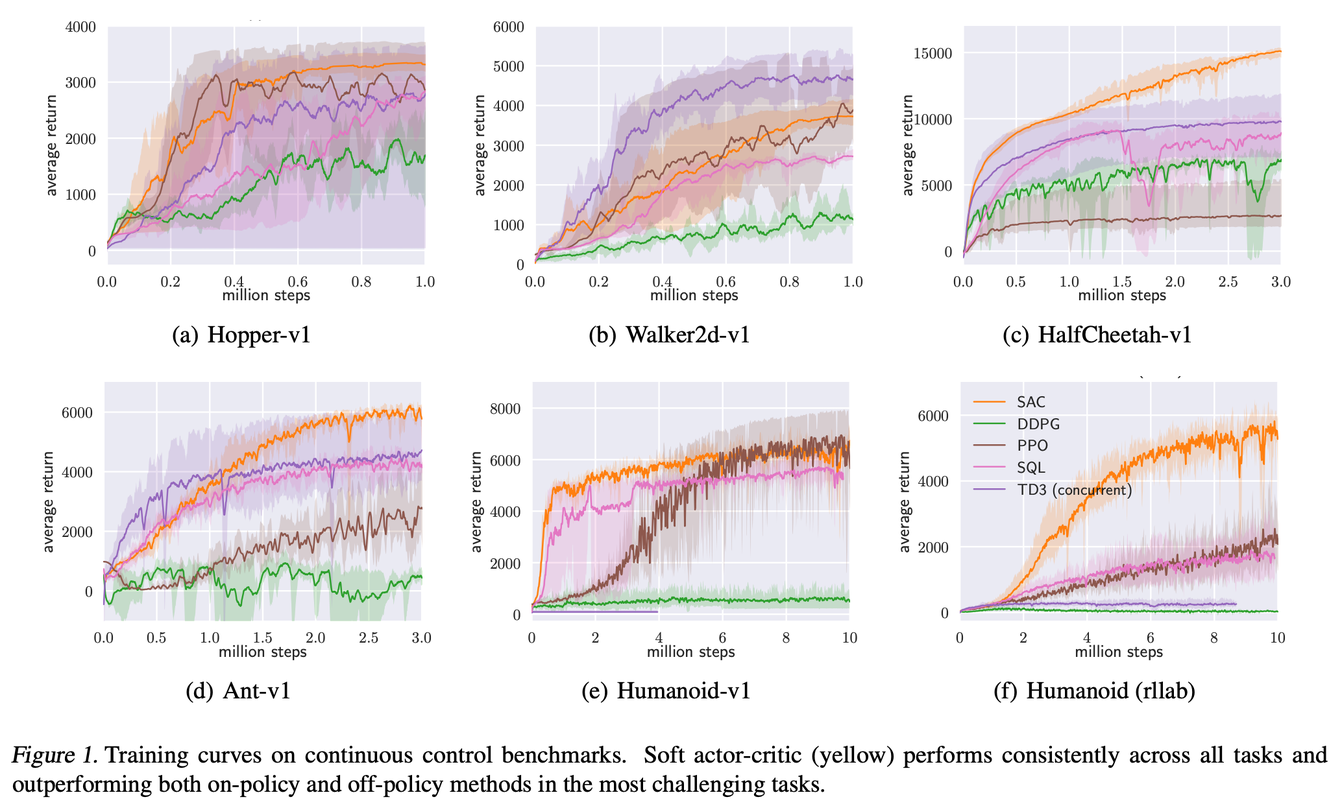
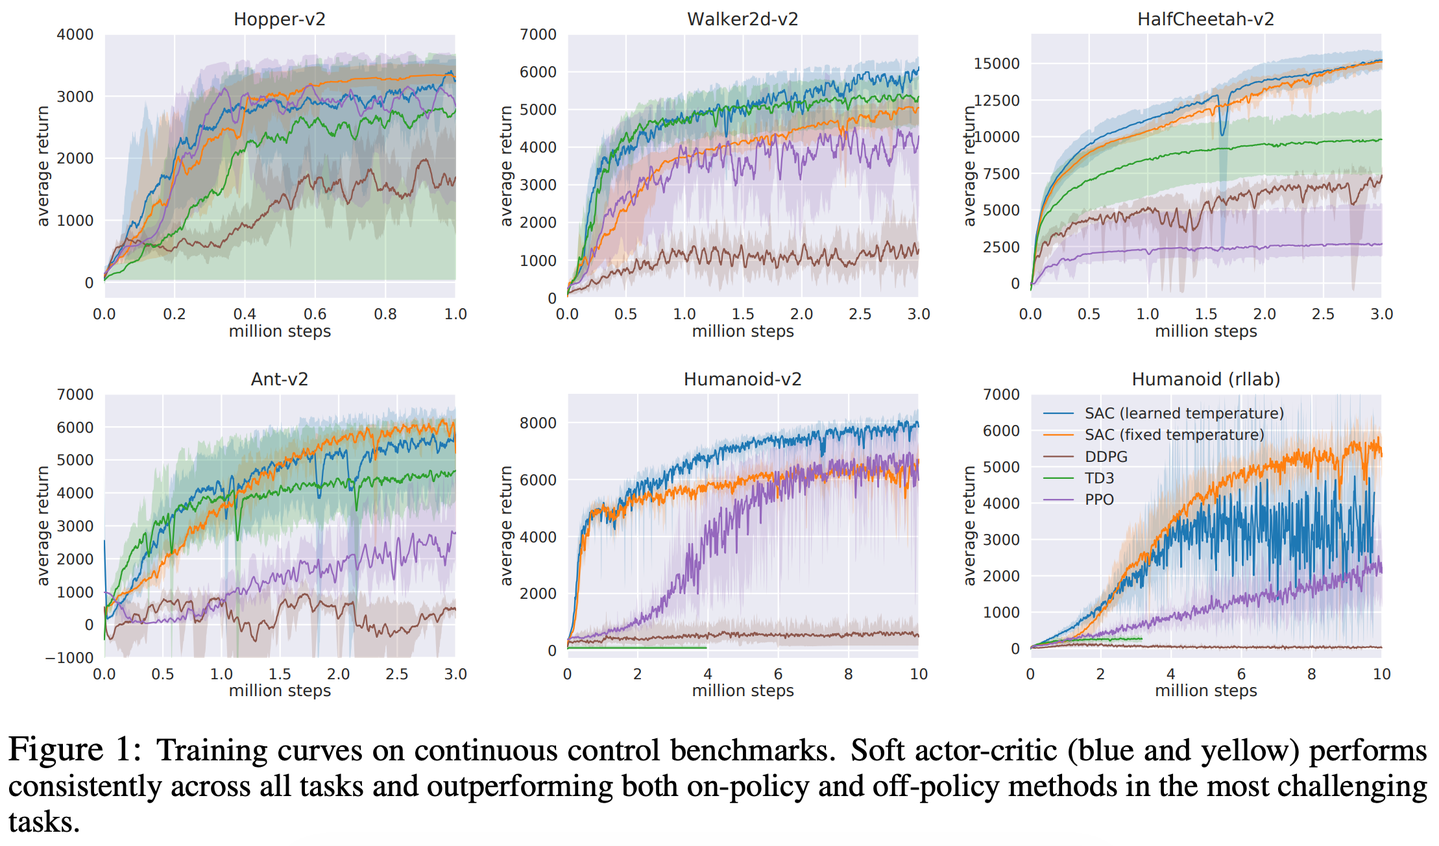
add 2 2018 SAC v2

diff --git a/docs/docs/2.3_2026_SOTA_RL/papers/02_SAC_v2.md b/docs/docs/2.3_2026_SOTA_RL/papers/02_SAC_v2.md
@@ -1,0 +1,313 @@
+# 2 2018 SAC v2
+
+- [Soft Actor-Critic Algorithms and Applications](https://arxiv.org/pdf/1812.05905)
+
+- https://github.com/rail-berkeley/softlearning/
+- https://sites.google.com/view/sac-and-applications/
+
+## Abstract
+
+- Model-free deep reinforcement learning (RL) algorithms have been successfully applied to a range of challenging sequential decision making and control tasks.
+- However, these methods typically suffer from two major challenges: 
+    - high sample complexity 
+    - and brittleness to hyperparameters. 
+- Both of these challenges limit the applicability of such methods to real-world domains. 
+- In this paper, we describe Soft Actor-Critic (SAC), our recently introduced off-policy actor-critic algorithm based on the maximum entropy RL framework. 
+- In this framework, the actor aims to simultaneously maximize **expected return** and **entropy**; that is, to succeed at the task while acting as randomly as possible. 
+- **We extend SAC to incorporate a number of modifications that accelerate training and improve stability with respect to the hyperparameters, including a constrained formulation that automatically tunes the temperature hyperparameter.** 
+
+- We systematically evaluate SAC on a range of benchmark tasks, as well as challenging real-world tasks such as 
+    - locomotion for a quadrupedal robot 
+    - and robotic manipulation with a dexterous hand. 
+- With these improvements, SAC achieves state-of-the-art performance, outperforming prior on-policy and off-policy methods in sample-efficiency and asymptotic performance.
+- Furthermore, we demonstrate that, in contrast to other off-policy algorithms, our approach is very stable, achieving similar performance across different random seeds. 
+- These results suggest that SAC is a promising candidate for learning in real-world robotics tasks.
+
+## 1 Introduction
+
+## 2 Related Work
+
+## 3 Preliminaries
+
+### 3.1 Notation
+
+### 3.2 Maximum Entropy Reinforcement Learning
+
+- Maximum entropy objective:
+
+$$ J(\pi) = \sum_{t=0}^T E_{ (s_t, a_t) \sim \rho_\pi } [ r(s_t, a_t) + \alpha H(\pi(\cdot|s_t)) ] $$
+
+## 4 From Soft Policy Iteration to Soft Actor-Critic
+
+### 4.1 Soft Policy Iteration
+
+- Bellman backup operator:
+
+$$ Q^{k+1} := T^\pi Q^k(s_t, a_t) := r(s_t, a_t) + \gamma E_{s_{t+1}\sim p}[V^k(s_{t+1})] \\[5pt] 
+V^k(s_t) := E_{a_t \sim \pi} [ Q^k(s_t, a_t) - {\color{red}\alpha} \log \pi(a_t|s_t) ] $$
+
+- In the policy improvement step, for each state, we update the policy
+according to
+
+$$ \pi_\text{new} = \argmin_{\pi' \in \Pi} D_{KL} \left(
+\pi'(\cdot|s_t) \middle\| { \exp( {\color{red}\alpha^{-1}} Q^{\pi_\text{old}}(s_t, \cdot) ) \over Z^{\pi_\text{old}}(s_t) }
+\right) $$
+
+### 4.2 Soft Actor-Critic
+
+- **The soft Q-function parameters can be trained to minimize the soft Bellman residual**:
+
+$$ J_Q(\theta) = E_{(s_t, a_t)\sim D} \left[ {1\over 2} \left(
+Q_\theta(s_t, a_t) - \hat{Q}(s_t, a_t) \right)^2 \right] \\[5pt]
+\hat{Q}(s_t, a_t) := r(s_t, a_t) + \gamma E_{s_{t+1}\sim p}[ {\color{red} V_{\bar{\theta}}}(s_{t+1})] \\[10pt]
+\nabla_\theta J_Q(\theta) = ( Q_\theta(s_t, a_t) - r(s_t, a_t) - \gamma {\color{red} V_{\bar{\theta}}}(s_{t+1}) ) \nabla_\theta Q_\theta(s_t, a_t) $$
+
+- **where the value function is implicitly parameterized through the soft Q-function parameters via Equation 3**
+    - **In (Haarnoja et al., 2018c) we introduced an additional function approximator for the value function, but later found it to be unnecessary.**
+
+- The update makes use of a target soft Q-function with parameters $\bar{\theta}$ that are obtained as an **exponentially moving average** of the soft Q-function weights, which has been shown to stabilize training (Mnih
+et al., 2015).
+
+- Finally, the policy parameters can be learned by directly minimizing the expected KL-divergence in Equation 4:
+
+$$ J_\pi(\phi) = E_{s_t\sim D} \left[ D_{KL} \left(
+\pi_\phi( \cdot|s_t ) \middle\| { \exp( {\color{red}\alpha^{-1}} Q_\theta(s_t, \cdot) ) \over Z_\theta(s_t) }
+\right) \right] \\[5pt]
+\text{ignore } Z_\theta(s_t) \text{, scale by } \alpha: \\[5pt]
+{\color{red} J_\pi(\phi) = E_{s_t\sim D} \left[ E_{a_t\sim \pi_\phi} \left[
+\alpha \log \pi_\phi( a_t|s_t ) -  Q_\theta(s_t, a_t)  
+\right] \right] } $$
+
+- Study note: $$ D_{KL}(P \parallel Q) := E_{x \sim P} [ \log P(x) - \log Q(x)] $$
+
+- We reparameterize the policy using a neural network transformation:
+
+$$ a_t = f_\phi(\epsilon_t ; s_t) $$
+
+- where $\epsilon_t$ is an input noise vector, sampled from some fixed distribution, such as a spherical Gaussian. We can now rewrite the objective in Equation 7 as:
+
+$$ J_\pi(\phi) = E_{s_t\sim D, \; \epsilon_t \sim \mathcal{N} } \left[
+{\color{red} \alpha} \log \pi_\phi( f_\phi(\epsilon_t ; s_t) | s_t )
+- Q_\theta(s_t, f_\phi(\epsilon_t ; s_t))
+\right] $$
+
+- We can approximate the gradient of Equation 9 with:
+
+$$ \nabla_\phi J_\pi(\phi) = \boxed{ \nabla_\phi {\color{red} \alpha} \log \pi_\phi( a_t | s_t ) + \nabla_{a_t} {\color{red} \alpha} \log \pi_\phi(a_t|s_t) \; \nabla_\phi f_\phi(\epsilon_t;s_t) } \\[5pt]
+- \nabla_{a_t}Q(s_t, a_t) \; \nabla_\phi f_\phi(\epsilon_t;s_t) $$
+
+## 5 Automating Entropy Adjustment for Maximum Entropy RL
+
+- In the previous section, we derived a practical off-policy algorithm for learning maximum entropy policies of a given temperature.
+    - **Unfortunately, choosing the optimal temperature is non-trivial, and the temperature needs to be tuned for each task.** 
+    - Instead of requiring the user to set the temperature manually, we can automate this process by formulating a different maximum entropy reinforcement learning objective, where the entropy is treated as a constraint. 
+
+- The **magnitude of the reward** differs not only across tasks, but it also depends on the policy, which improves over time during training. 
+    - Since the **optimal entropy** depends on this magnitude, this makes the temperature adjustment particularly difficult: 
+        - the entropy can vary unpredictably both across tasks and during training as the policy becomes better. 
+        - Simply forcing the entropy to a fixed value is a poor solution, since the policy should be free to explore more in regions where the optimal action is uncertain, but remain more deterministic in states with a clear distinction between good and bad actions. 
+        
+- Instead, we formulate a constrained optimization problem where the average entropy of the policy is constrained, while the entropy at different states can vary. 
+    - Similar approach was taken in (Abdolmaleki et al., 2018), **where the policy was constrained to remain close to the previous policy.** 
+    - We show that the dual to this constrained optimization leads to the soft actor-critic updates, along with an additional update for the dual variable, which plays the role of the temperature. 
+    
+- Our formulation also makes it possible to learn the entropy with more expressive policies that can model multi-modal distributions, such as policies based on normalizing flows (Haarnoja et al., 2018a) for which no closed form expression for the entropy exists. 
+
+- We will derive the update for finite horizon case, and then derive an approximation for stationary policies by dropping the time dependencies from the policy, soft Q-function, and the temperature.
+
+- **Our aim is to find a stochastic policy with maximal expected return that satisfies a minimum expected entropy constraint.** Formally, we want to solve the constrained optimization problem
+
+$$ \max_{\pi_{0:T}} E_{\rho_\pi} \left[ \sum_{t=0}^T r(s_t, a_t) \right] \\[5pt]
+s.t. \quad E_{(s_t, a_t)\sim \rho_\pi} [-\log \pi_t(a_t|s_t) ] \ge H \quad \forall t $$
+
+- where $H$ is a desired minimum expected entropy. 
+
+- Note that, for fully observed MDPs, the policy that optimizes the expected return is deterministic, so we expect this constraint to usually be tight and do not need to impose an upper bound on the entropy.
+
+- Since the policy at time $t$ can only affect the **future** objective value, we can employ an (approximate) **dynamic programming** approach, solving for the policy backward through time. We rewrite the objective as an **iterated maximization**
+
+$$ \max_{\pi_0} \left(
+E[r(s_0, a_0)] + \max_{\pi_1} \left(
+E[r(s_1, a_1)] + ...
+\right) \right) $$
+
+- subject to the constraint on entropy. 
+
+- Starting from the last time step, we change the constrained maximization to the **dual problem (method of Lagrange multipliers)**
+
+$$ \max_{\pi_T} E [r(s_T, a_T)] =
+\min_{\alpha_T \ge 0} \max_{\pi_T} E[ r(s_T, a_T) - \alpha_T \log \pi(a_T|s_T) ] - \alpha_T H $$
+
+- where $\alpha_T$ is the **dual variable (Lagrange Multiplier)**
+- We have also used **strong duality**, which holds since the **objective is linear** and the **constraint (entropy) is convex function in $\pi_T$**. 
+
+- This dual objective is closely related to the maximum entropy objective with respect to the policy, and the optimal policy is the maximum entropy policy corresponding to temperature $\alpha_T: \pi^*_T(a_T|s_T;\alpha_T)$. We can solve for the **optimal dual variable**:
+
+$$ \alpha^*_T = \argmin_{\alpha_T} E_{a_t\sim\pi^*_t} [ -\alpha_T \log\pi^*_T (a_T|s_T; \alpha_T) - \alpha_T H ] $$
+
+- To simplify notation, we make use of the recursive definition of the soft Q-function
+
+$$ !!! $$
+
+- Now, subject to the entropy constraints and again using the dual problem, we have
+
+$$ !!! $$
+
+- **In this way, we can proceed backwards in time and recursively optimize Equation 11.** Note that the optimal policy at time $t$ is a function of the dual variable $\alpha_t$. 
+- Similarly, we can solve the optimal dual variable $\alpha^*_t$ after solving for $Q^∗_t$ and $π^∗_t$:
+
+$$ \alpha^*_t = \argmin_{\alpha_t} E_{a_t\sim\pi^*_t} [ -\alpha_t \log\pi^*_t (a_t|s_t; \alpha_t) - \alpha_t H ] $$
+
+- The **solution above** along with the **policy and soft Q-function updates** described in Section 4 constitute the core of our algorithm, and 
+    - **in theory, exactly solving them recursively optimize the optimal entropy-constrained maximum expected return objective in Equation 11,** 
+    - **but in practice, we will need to resort to function approximators and stochastic gradient descent.**
+
+## 6 Practical Algorithm
+
+- Our algorithm makes use of **two soft Q-functions to mitigate positive bias** in the policy improvement step that is known to degrade performance of value based methods (Hasselt, 2010; Fujimoto et al., 2018). 
+    - In particular, we parameterize two soft Q-functions, with parameters $\theta_i$, and train them independently to optimize $J_Q(\theta_i)$. 
+    - We then use the **minimum of the the soft Q-functions** for the stochastic gradient in Equation 6 and policy gradient in Equation 10, as proposed by Fujimoto et al. (2018). 
+    - Although our algorithm can learn challenging tasks, including a 21-dimensional Humanoid, **using just a single Q-function**, 
+    - we found **two soft Q-functions significantly speed up training, especially on harder tasks.**
+
+- **In addition to the soft Q-function and the policy, we also learn $\alpha$ by minimizing the dual objective in Equation 17.** 
+    - This can be done by approximating dual gradient descent (Boyd & Vandenberghe, 2004). 
+    - Dual gradient descent alternates between optimizing the Lagrangian with respect to the primal variables to convergence, and then taking a gradient step on the dual variables. 
+    - While optimizing with respect to the primal variables fully is impractical, a truncated version that performs incomplete optimization (even for a single gradient step) can be shown to converge under convexity assumptions (Boyd & Vandenberghe, 2004). 
+    - While such assumptions do not apply to the case of nonlinear function approximators such as neural networks, **we found this approach to still work in practice.** 
+    - Thus, we compute gradients for $\alpha$ with the following objective:
+
+$$ J(\alpha) = E_{a_t\sim\pi_t} [ -\alpha \log\pi_t (a_t|s_t) - \alpha H ] $$
+
+- The final algorithm is listed in Algorithm 1. 
+    - The method alternates between collecting experience from the environment with the current policy and updating the function approximators using the stochastic gradients from batches sampled from a replay pool. 
+    - Using off-policy data from a replay pool is feasible because both value estimators and the policy can be trained entirely on off-policy data. 
+    - The algorithm is agnostic to the parameterization of the policy, as long as it can be evaluated for any arbitrary state-action tuple.
+
+---
+
+- **Algorithm 1 Soft Actor-Critic**
+    - Input: $\theta_1, \theta_2, \phi$. (Initial parameters)
+    - $\bar{\theta}_1 \gets \theta_1, \bar{\theta}_2 \gets \theta_2$  (Initialize target network weights)
+    - $D \gets \emptyset $. (Initialize an empty replay pool)
+    - for each **iteration** do
+        - for each **environment step** do
+            - $a_t \sim \pi_\phi(a_t|s_t)$. (Sample action from the policy)
+            - $s_{t+1} \sim p(s_{t+1}|s_t, a_t)$. (Sample transition from the environment)
+            - $D \gets D \cup \{(s_t, a_t, r(s_t, a_t), s_{t+1})\}$. (Store the transition in the replay pool)
+        - for each **gradient step** do
+            - $\theta_i \gets \theta_i − \lambda_Q \nabla_{\theta_i} J_Q(\theta_i) \quad i \in \{1, 2\}$. (Update the Q-function parameters)
+            - $\phi \gets \phi − \lambda_\pi \nabla_\phi J_\pi(\phi)$. (Update policy weights)
+            - $\alpha \gets \alpha − \lambda \nabla_\alpha J(\alpha)$. (Adjust temperature)
+            - $\bar{\theta}_i \gets \tau \theta_i + (1 − \tau) \bar{\theta}_i \quad i \in \{1, 2\}$. (Update target network weights)
+
+$$ J_Q(\theta) = E_{(s_t, a_t)\sim D} \left[ {1\over 2} \left(
+Q_\theta(s_t, a_t) - \hat{Q}(s_t, a_t) \right)^2 \right] \\[5pt]
+\hat{Q}(s_t, a_t) := r(s_t, a_t) + \gamma E_{s_{t+1}\sim p}[ {\color{red} V_{\bar{\theta}}}(s_{t+1})] \\[10pt]
+J_\pi(\phi) = E_{s_t\sim D, \; \epsilon_t \sim \mathcal{N} } \left[
+{\color{red} \alpha} \log \pi_\phi( f_\phi(\epsilon_t ; s_t) | s_t )
+- Q_\theta(s_t, f_\phi(\epsilon_t ; s_t))
+\right] \\[10pt] 
+J(\alpha) = E_{a_t\sim\pi_t} [ -\alpha \log\pi_t (a_t|s_t) - \alpha H ] $$
+
+---
+
+## 7 Experiments
+
+- The goal of our experimental evaluation is to understand how the sample complexity and stability of our method compares with prior off-policy and on-policy deep reinforcement learning algorithms.
+
+- We compare our method to prior techniques on a range of challenging continuous control tasks from the OpenAI gym benchmark suite (Brockman et al., 2016) and also on the rllab implementation of the Humanoid task (Duan et al., 2016). 
+    - Although the easier tasks can be solved by a wide range of different algorithms, the more complex benchmarks, such as the 21-dimensional Humanoid (rllab), are exceptionally difficult to solve with off-policy algorithms (Duan et al., 2016). 
+
+- The stability of the algorithm also plays a large role in performance: easier tasks make it more practical to tune hyperparameters to achieve good results, while the already narrow basins of effective hyperparameters become prohibitively small for the more sensitive algorithms on the hardest benchmarks, leading to poor performance (Gu et al., 2016).
+
+### 7.1 Simulated Benchmarks
+
+- We compare our method to 
+    - deep deterministic policy gradient (DDPG) (Lillicrap et al., 2015), an algorithm that is regarded as one of the more efficient off-policy deep RL methods (Duan et al., 2016); 
+    - proximal policy optimization (PPO) (Schulman et al., 2017b), a stable and effective on-policy policy gradient algorithm; 
+    - and soft Q-learning (SQL) (Haarnoja et al., 2017), a recent off-policy algorithm for learning maximum entropy policies. 
+        - Our SQL implementation also includes two Q-functions, which we found to improve its performance in most environments. 
+    - twin delayed deep deterministic policy gradient algorithm (TD3) (Fujimoto et al., 2018), using the author-provided implementation. 
+        - This is an extension to DDPG, proposed concurrently to our method, that first applied the double Q-learning trick to continuous control along with other improvements. 
+    - We turned off the exploration noise for evaluation for DDPG and PPO. 
+    - For maximum entropy algorithms, which do not explicitly inject exploration noise, we either evaluated with the exploration noise (SQL) or use the mean action (SAC). 
+    
+- Figure 1 shows the total average return of evaluation rollouts during training for DDPG, PPO, and TD3. 
+    - We train five different instances of each algorithm with different random seeds, with each performing one evaluation rollout every 1000 environment steps. 
+    - The solid curves corresponds to the mean and the shaded region to the minimum and maximum returns over the five trials. 
+    - **For SAC, we include both** 
+        - **a version, where the temperature parameter is fixed and treated as a hyperparameter and tuned for each environment separately (orange),** 
+        - **and a version where the temperature is adjusted automatically (blue).** 
+    - The results show that, overall, SAC performs comparably to the baseline methods on the easier tasks and outperforms them on the harder tasks with a large margin, both in terms of learning speed and the final performance. 
+        - For example, DDPG fails to make any progress on Ant-v1, Humanoid-v1, and Humanoid (rllab), a result that is corroborated by prior work (Gu et al., 2016; Duan et al., 2016). 
+        - **SAC also learns considerably faster than PPO as a consequence of the large batch sizes PPO needs to learn stably on more high-dimensional and complex tasks.** 
+        - Another maximum entropy RL algorithm, SQL, can also learn all tasks, but it is slower than SAC and has worse asymptotic performance. 
+    - The quantitative results attained by SAC in our experiments also compare very favorably to results reported by other methods in prior work (Duan et al., 2016; Gu et al., 2016; Henderson et al., 2017), indicating that both the sample efficiency and final performance of SAC on these benchmark tasks exceeds the state of the art. 
+    - **The results also indicate that the automatic temperature tuning scheme works well across all the environments, and thus effectively eliminates the need for tuning the temperature.** 
+    - All hyperparameters used in this experiment for SAC are listed in Appendix D.
+
+### 7.2 Quadrupedal Locomotion in the Real World
+
+- In this section, we describe an application of our method to learn walking gaits directly in the real world. 
+    - **We use the Minitaur robot, a small-scale quadruped with eight direct-drive actuators (Kenneally et al., 2016).** 
+    - Each leg is controlled by two actuators that allow it to move in the sagittal plane. 
+    - The Minitaur is equipped with motor encoders that measure the motor angles and an IMU that measures orientation and angular velocity of Minitaur’s base. 
+    - The action space are the swing angle and the extension of each leg, which are then mapped to desired motor positions and tracked with a PD controller (Tan et al., 2018). 
+    - The observations include the motor angles as well as roll and pitch angles and angular velocities of the base. 
+    - We exclude yaw since it is unreliable due to drift and irrelevant for the walking task. 
+    - **Note that latencies and contacts in the system make the dynamics `non-Markovian`, which can significantly degrade learning performance.** 
+        - **We therefore construct the state out of the current and past five observations and actions.** 
+    - The reward function rewards large forward velocity, which is estimated using a motion capture system, and penalizes large angular accelerations, computed via finite differentiation from the last three actions. 
+    - We also found it necessary to penalize for large pitch angles and for extending the front legs under the robot, which we found to be the most common failure cases that would require manual reset. 
+    - **We parameterize the policy and the value functions with feed-forward neural networks with two hidden-layers and 256 neurons per layer.**
+
+- We have developed a semi-automatic robot training pipeline that consists of two components parallel jobs: training and data collection. 
+    - These jobs run asynchronously on two different computers. 
+    - **The training process runs on a workstation, which updates the neural networks and periodically downloads the latest data from the robot and uploads the latest policy to the robot.** 
+    - On the robot, the on-board **Nvidia Jetson TX2** runs the data collection job, which executes the policy, collects the trajectory and uploads these data to the workstation through Ethernet. 
+    - Once the training is started, minimal human intervention is needed, except for the need to reset the robot state if it falls or drifts far from the initial state.
+
+- This learning task presents substantially challenges for real-world reinforcement learning. 
+    - The robot is under-actuated (欠驱动), and must therefore delicately balance contact forces on the legs to make forward progress. 
+    - An untrained policy can lose balance and fall, and too many falls will eventually damage the robot, making sample-efficient learning essential. 
+
+- **Our method successfully learns to walk from `160k environment steps`, or approximately `400 episodes` with maximum length of `500` steps, which amount to approximately `2 hours` of real-world training time.**
+
+- However, in the real world, the utility of a locomotion policy hinges critically on its ability to generalize to different terrains and obstacles. 
+    - **Although we trained our policy only on flat terrain (地形), as illustrated in Figure 2 (first row), we then tested it on varied terrains and obstacles (other rows). Because soft actor-critic learns robust policies, due to entropy maximization at training time, the policy can readily generalize to these perturbations without any additional learning.** 
+    - The robot is able to 
+        - walk up and down a slope (first row), 
+        - ram through an obstacle made of wooden blocks (second row), 
+        - and step down stairs (third row) without difficulty, **despite not being trained in these settings.**
+    - **To our knowledge, this experiment is the first example of a deep reinforcement learning algorithm learning under-actuated quadrupedal locomotion directly in the real world without any simulation or pretraining.** 
+
+### 7.3 Dexterous Hand Manipulation
+
+- Our second real-world robotic task involves training a 3-finger dexterous robotic hand to manipulate an object. 
+    - The hand is based on the “dclaw” hand, discussed by (Zhu et al., 2018). 
+    - This hand has 9 DoFs, each controlled by a Dynamixel servo-motor. 
+    - The policy controls the hand by sending target joint angle positions for the on-board PID controller. 
+    - The manipulation task requires the hand to rotate a “valve” - like object (resembling a sink faucet), as shown in Figure 3. 
+    - In order to perceive the valve, the robot must use raw RGB images, which are illustrated in the second row of Figure 3.
+    - **The images are processed in a neural network, consisting of `two convolutional` (four 3x3 filters) and max pool (3x3) layers, followed by `two fully connected` layers (256 units).** 
+    - The robot must rotate the valve into the correct position, with the colored part of the valve facing directly to the right, from any random starting position. 
+    - The initial position of the valve is reset uniformly at random for each episode, forcing the policy to learn to use the raw RGB images to perceive the current valve orientation. 
+    - A small motor is attached to the valve to automate resets and to provide the ground truth position for the determination of the reward function. 
+        - The position of this motor is not provided to the policy.
+    - This task is exceptionally challenging due to both the perception challenges and the physical difficulty of rotating the valve with such a complex robotic hand. 
+    - As can be seen in the accompanying video on the project website, rotating the valve requires a complex finger gait where the robot moves the fingers over the valve in a coordinated pattern, and stops precisely at the desired position.
+    - **Learning this task directly from raw RGB images requires `300k environment interaction steps`, which is the equivalent of `20 hours` of training, including all resets and neural network training time (Figure 4).** 
+    - **To our knowledge, this task represents one of the most complex robotic manipulation tasks learned directly end-to-end from raw images in the real world with deep reinforcement learning, without any simulation or pretraining.** 
+    - We also learned the **same task without images** by feeding the valve position directly to the neural networks. In that case, learning takes `3 hours`, which is substantially faster than what has been reported earlier on the same task using `PPO (7.4 hours)` (Zhu et al., 2018).
+
+![](../imgs/02_SAC_dexterous_hand.png)
+
+## 8 Conclusion
+
+- In this article, we presented soft actor-critic (SAC), an off-policy maximum entropy deep reinforcement learning algorithm that provides sample-efficient learning while retaining the benefits of entropy maximization and stability. 
+
+- Our theoretical results derive soft policy iteration, which we show to converge to the optimal policy. From this result, we can formulate a practical soft actor-critic algorithm that can be used to train deep neural network policies, and we empirically show that it matches or exceeds the performance of state-of-the-art model-free deep RL methods, including the off-policy TD3 algorithm and the on-policy PPO algorithm without any environment specific hyperparameter tuning. 
+
+- **Our real-world experiments indicate that soft actor-critic is robust and sample efficient enough for robotic tasks learned directly in the real world, such as locomotion and dexterous manipulation.**
+    - To our knowledge, these results represent the first evaluation of deep reinforcement learning for real-world training of under-actuated walking skills with a quadrupedal robot, as well as one of the most complex dexterous manipulation behaviors learned with deep reinforcement learning end-to-end from raw image observations.

diff --git a/docs/docs/2.3_2026_SOTA_RL/papers/02_SAC_v1.md b/docs/docs/2.3_2026_SOTA_RL/papers/02_SAC_v1.md
@@ -1,4 +1,4 @@
-# 2 2018 SAC
+# 2 2018 SAC v1
 
 - [Soft Actor-Critic: Off-Policy Maximum Entropy Deep Reinforcement Learning with a Stochastic Actor](https://arxiv.org/pdf/1801.01290)
 
